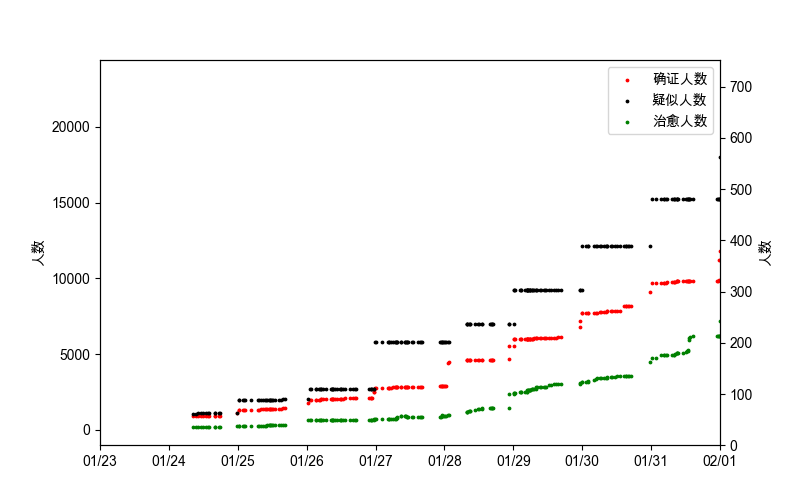
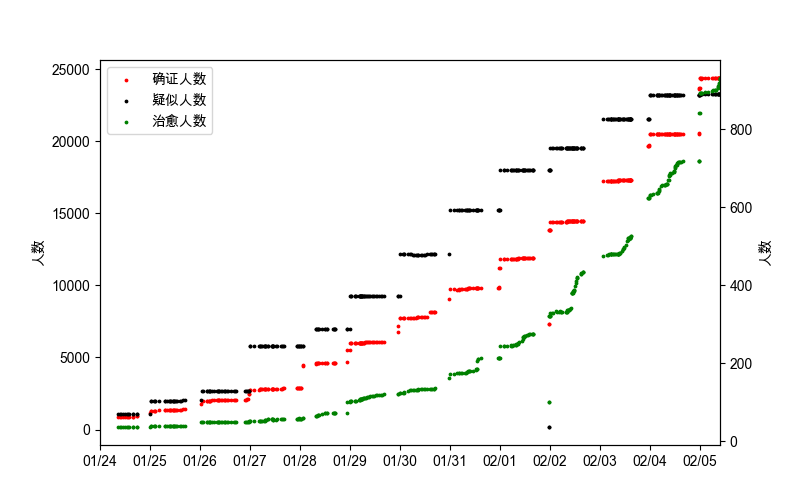
add imgs

diff --git a/img/overall_distribution.html b/img/overall_distribution.html
@@ -8,11 +8,11 @@
 
 </head>
 <body>
-    <div id="42253f12b79942daa2b713eed31f20df" class="chart-container" style="width:900px; height:500px;"></div>
+    <div id="192d62e234014090b5b4dc46ddbf4339" class="chart-container" style="width:900px; height:500px;"></div>
     <script>
-        var chart_42253f12b79942daa2b713eed31f20df = echarts.init(
-            document.getElementById('42253f12b79942daa2b713eed31f20df'), 'white', {renderer: 'canvas'});
-        var option_42253f12b79942daa2b713eed31f20df = {
+        var chart_192d62e234014090b5b4dc46ddbf4339 = echarts.init(
+            document.getElementById('192d62e234014090b5b4dc46ddbf4339'), 'white', {renderer: 'canvas'});
+        var option_192d62e234014090b5b4dc46ddbf4339 = {
     "animation": true,
     "animationThreshold": 2000,
     "animationDuration": 1000,
@@ -50,7 +50,7 @@
     "series": [
         {
             "type": "map",
-            "name": "20-02-04\u5168\u56fd\u5404\u7701\u611f\u67d3\u603b\u4eba\u6570",
+            "name": "20-02-05\u5168\u56fd\u5404\u7701\u611f\u67d3\u603b\u4eba\u6570",
             "label": {
                 "show": true,
                 "position": "top",
@@ -60,19 +60,19 @@
             "data": [
                 {
                     "name": "\u4e0a\u6d77",
-                    "value": 219
+                    "value": 243
                 },
                 {
                     "name": "\u4e91\u5357",
-                    "value": 119
+                    "value": 124
                 },
                 {
                     "name": "\u5185\u8499\u53e4",
-                    "value": 35
+                    "value": 42
                 },
                 {
                     "name": "\u5317\u4eac",
-                    "value": 228
+                    "value": 253
                 },
                 {
                     "name": "\u53f0\u6e7e",
@@ -80,15 +80,15 @@
                 },
                 {
                     "name": "\u5409\u6797",
-                    "value": 42
+                    "value": 54
                 },
                 {
                     "name": "\u56db\u5ddd",
-                    "value": 282
+                    "value": 301
                 },
                 {
                     "name": "\u5929\u6d25",
-                    "value": 67
+                    "value": 69
                 },
                 {
                     "name": "\u5b81\u590f",
@@ -96,59 +96,59 @@
                 },
                 {
                     "name": "\u5b89\u5fbd",
-                    "value": 480
+                    "value": 530
                 },
                 {
                     "name": "\u5c71\u4e1c",
-                    "value": 275
+                    "value": 307
                 },
                 {
                     "name": "\u5c71\u897f",
-                    "value": 74
+                    "value": 81
                 },
                 {
                     "name": "\u5e7f\u4e1c",
-                    "value": 813
+                    "value": 895
                 },
                 {
                     "name": "\u5e7f\u897f",
-                    "value": 139
+                    "value": 150
                 },
                 {
                     "name": "\u65b0\u7586",
-                    "value": 29
+                    "value": 32
                 },
                 {
                     "name": "\u6c5f\u82cf",
-                    "value": 308
+                    "value": 341
                 },
                 {
                     "name": "\u6c5f\u897f",
-                    "value": 476
+                    "value": 548
                 },
                 {
                     "name": "\u6cb3\u5317",
-                    "value": 126
+                    "value": 135
                 },
                 {
                     "name": "\u6cb3\u5357",
-                    "value": 675
+                    "value": 764
                 },
                 {
                     "name": "\u6d59\u6c5f",
-                    "value": 829
+                    "value": 895
                 },
                 {
                     "name": "\u6d77\u5357",
-                    "value": 80
+                    "value": 91
                 },
                 {
                     "name": "\u6e56\u5317",
-                    "value": 13522
+                    "value": 16678
                 },
                 {
                     "name": "\u6e56\u5357",
-                    "value": 593
+                    "value": 661
                 },
                 {
                     "name": "\u6fb3\u95e8",
@@ -160,7 +160,7 @@
                 },
                 {
                     "name": "\u798f\u5efa",
-                    "value": 194
+                    "value": 205
                 },
                 {
                     "name": "\u897f\u85cf",
@@ -168,7 +168,7 @@
                 },
                 {
                     "name": "\u8d35\u5dde",
-                    "value": 58
+                    "value": 64
                 },
                 {
                     "name": "\u8fbd\u5b81",
@@ -176,23 +176,23 @@
                 },
                 {
                     "name": "\u91cd\u5e86",
-                    "value": 344
+                    "value": 376
                 },
                 {
                     "name": "\u9655\u897f",
-                    "value": 142
+                    "value": 165
                 },
                 {
                     "name": "\u9752\u6d77",
-                    "value": 15
-                },
-                {
-                    "name": "\u9999\u6e2f",
                     "value": 17
                 },
                 {
+                    "name": "\u9999\u6e2f",
+                    "value": 18
+                },
+                {
                     "name": "\u9ed1\u9f99\u6c5f",
-                    "value": 155
+                    "value": 190
                 },
                 {
                     "name": "\u5f85\u660e\u786e\u5730\u533a",
@@ -208,10 +208,10 @@
     "legend": [
         {
             "data": [
-                "20-02-04\u5168\u56fd\u5404\u7701\u611f\u67d3\u603b\u4eba\u6570"
+                "20-02-05\u5168\u56fd\u5404\u7701\u611f\u67d3\u603b\u4eba\u6570"
             ],
             "selected": {
-                "20-02-04\u5168\u56fd\u5404\u7701\u611f\u67d3\u603b\u4eba\u6570": true
+                "20-02-05\u5168\u56fd\u5404\u7701\u611f\u67d3\u603b\u4eba\u6570": true
             },
             "show": true,
             "padding": 5,
@@ -234,7 +234,7 @@
     },
     "title": [
         {
-            "text": "20-02-04\u5168\u56fd\u5404\u7701\u611f\u67d3\u603b\u4eba\u6570",
+            "text": "20-02-05\u5168\u56fd\u5404\u7701\u611f\u67d3\u603b\u4eba\u6570",
             "padding": 5,
             "itemGap": 10
         }
@@ -261,7 +261,7 @@
         "borderWidth": 0
     }
 };
-        chart_42253f12b79942daa2b713eed31f20df.setOption(option_42253f12b79942daa2b713eed31f20df);
+        chart_192d62e234014090b5b4dc46ddbf4339.setOption(option_192d62e234014090b5b4dc46ddbf4339);
     </script>
 </body>
 </html>

diff --git a/img/hubei_distribution.html b/img/hubei_distribution.html
@@ -8,11 +8,11 @@
 
 </head>
 <body>
-    <div id="c2824b2517954feca8c4c64deae59550" class="chart-container" style="width:900px; height:500px;"></div>
+    <div id="76483abd9bf5479f81811ae474bed67a" class="chart-container" style="width:900px; height:500px;"></div>
     <script>
-        var chart_c2824b2517954feca8c4c64deae59550 = echarts.init(
-            document.getElementById('c2824b2517954feca8c4c64deae59550'), 'white', {renderer: 'canvas'});
-        var option_c2824b2517954feca8c4c64deae59550 = {
+        var chart_76483abd9bf5479f81811ae474bed67a = echarts.init(
+            document.getElementById('76483abd9bf5479f81811ae474bed67a'), 'white', {renderer: 'canvas'});
+        var option_76483abd9bf5479f81811ae474bed67a = {
     "animation": true,
     "animationThreshold": 2000,
     "animationDuration": 1000,
@@ -50,7 +50,7 @@
     "series": [
         {
             "type": "map",
-            "name": "20-02-04 \u6e56\u5317\u7701\u611f\u67d3\u4eba\u6570",
+            "name": "20-02-05 \u6e56\u5317\u7701\u611f\u67d3\u4eba\u6570",
             "label": {
                 "show": true,
                 "position": "top",
@@ -60,39 +60,39 @@
             "data": [
                 {
                     "name": "\u4ed9\u6843\u5e02",
-                    "value": 188
+                    "value": 225
                 },
                 {
                     "name": "\u5341\u5830\u5e02",
-                    "value": 291
+                    "value": 318
                 },
                 {
                     "name": "\u54b8\u5b81\u5e02",
-                    "value": 348
+                    "value": 384
                 },
                 {
                     "name": "\u5929\u95e8\u5e02",
-                    "value": 117
+                    "value": 128
                 },
                 {
                     "name": "\u5b5d\u611f\u5e02",
-                    "value": 1120
+                    "value": 1462
                 },
                 {
                     "name": "\u5b9c\u660c\u5e02",
-                    "value": 452
+                    "value": 496
                 },
                 {
                     "name": "\u6069\u65bd\u571f\u5bb6\u65cf\u82d7\u65cf\u81ea\u6cbb\u5dde",
-                    "value": 123
+                    "value": 138
                 },
                 {
                     "name": "\u6b66\u6c49\u5e02",
-                    "value": 6384
+                    "value": 8351
                 },
                 {
                     "name": "\u6f5c\u6c5f\u5e02",
-                    "value": 44
+                    "value": 54
                 },
                 {
                     "name": "\u795e\u519c\u67b6\u6797\u533a",
@@ -100,31 +100,31 @@
                 },
                 {
                     "name": "\u8346\u5dde\u5e02",
-                    "value": 613
+                    "value": 713
                 },
                 {
                     "name": "\u8346\u95e8\u5e02",
-                    "value": 400
+                    "value": 422
                 },
                 {
                     "name": "\u8944\u9633\u5e02",
-                    "value": 632
+                    "value": 735
                 },
                 {
                     "name": "\u9102\u5dde\u5e02",
-                    "value": 332
+                    "value": 382
                 },
                 {
                     "name": "\u968f\u5dde\u5e02",
-                    "value": 641
+                    "value": 706
                 },
                 {
                     "name": "\u9ec4\u5188\u5e02",
-                    "value": 1422
+                    "value": 1645
                 },
                 {
                     "name": "\u9ec4\u77f3\u5e02",
-                    "value": 405
+                    "value": 509
                 }
             ],
             "roam": true,
@@ -136,10 +136,10 @@
     "legend": [
         {
             "data": [
-                "20-02-04 \u6e56\u5317\u7701\u611f\u67d3\u4eba\u6570"
+                "20-02-05 \u6e56\u5317\u7701\u611f\u67d3\u4eba\u6570"
             ],
             "selected": {
-                "20-02-04 \u6e56\u5317\u7701\u611f\u67d3\u4eba\u6570": true
+                "20-02-05 \u6e56\u5317\u7701\u611f\u67d3\u4eba\u6570": true
             },
             "show": true,
             "padding": 5,
@@ -162,7 +162,7 @@
     },
     "title": [
         {
-            "text": "20-02-04 \u6e56\u5317\u7701\u611f\u67d3\u4eba\u6570",
+            "text": "20-02-05 \u6e56\u5317\u7701\u611f\u67d3\u4eba\u6570",
             "padding": 5,
             "itemGap": 10
         }
@@ -189,7 +189,7 @@
         "borderWidth": 0
     }
 };
-        chart_c2824b2517954feca8c4c64deae59550.setOption(option_c2824b2517954feca8c4c64deae59550);
+        chart_76483abd9bf5479f81811ae474bed67a.setOption(option_76483abd9bf5479f81811ae474bed67a);
     </script>
 </body>
 </html>
